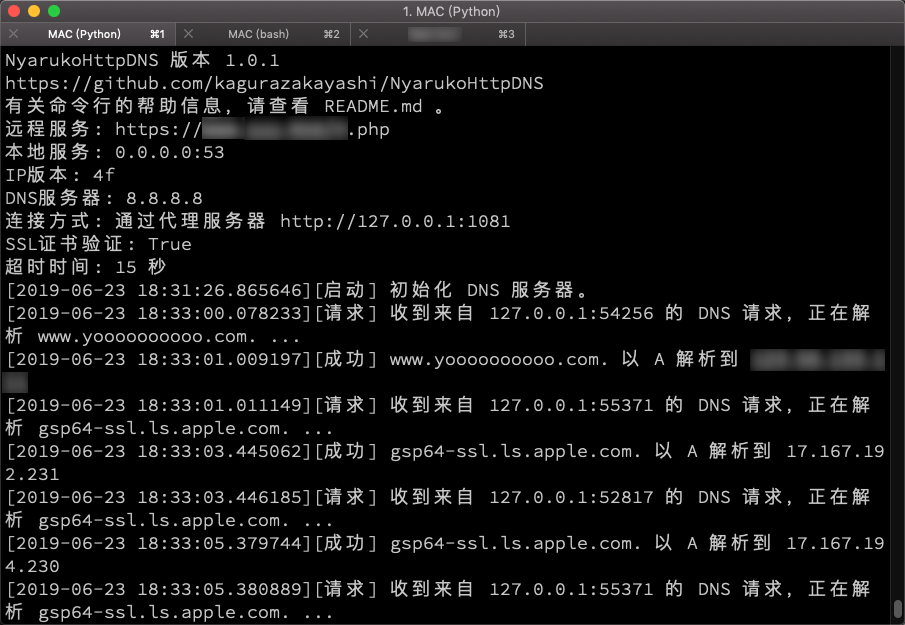
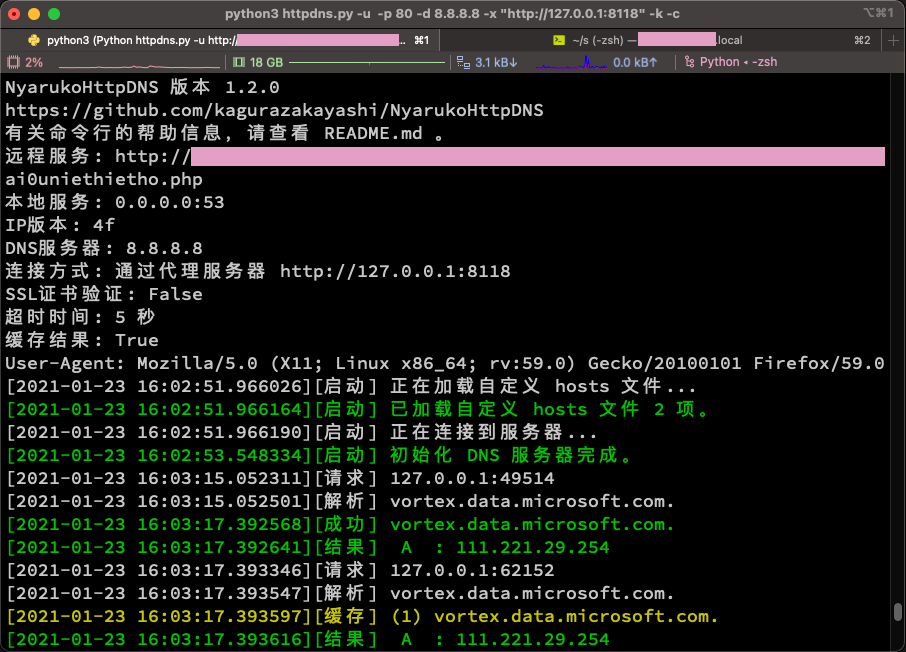
支持本地DNS服务器自定义hosts

Changed region(s): [[0.0, 0.0, 1.0, 1.0], [0.8972, 0.76, 0.9591, 0.8208], [0.8972, 0.4864, 0.9591, 0.5168]]

diff --git a/httpdns.py b/httpdns.py
@@ -77,6 +77,7 @@ class DNSServer(DatagramServer):
     def handle(self, data, address):
         global arga
         global cache
+        global hosts
         global totali
         totali += 1
         print(self.gettime()+"[请求] "+str(totali)+" : "+str(address[0]) + ":"+str(address[1]))
@@ -85,10 +86,13 @@ class DNSServer(DatagramServer):
         print(self.gettime()+"[解析] "+qname)
         rtype = ""
         rdns = ""
+        hk = hosts.keys()
+        hkl = len(hosts.keys())
         ca = cache.keys()
         cal = len(cache.keys())
         if hkl > 0 and qname in hk:
             rtype = " A "
+            rdns = hosts[qname]
             printYellow(self.gettime() +
                         "[本地] ("+str(hkl)+") "+qname)
         elif arga["cache"] == True and qname in ca:
@@ -262,15 +266,49 @@ else:
         print(UseStyle(msg, fore='blue'))
 
 
+def loadhosts():
+    nhosts = {}
+    try:
+        f = open('hosts.txt', 'r')
+        line = f.readline()
+        while line:
+            if len(line) == 0 or line[0:1] == "#":
+                line = f.readline()
+                continue
+            sparr = line.split(' ')
+            ip = sparr[0]
+            host = sparr[-1].replace('\n', '').replace('\r', '')
+            if host[-1:] != ".":
+                # host = host.strip('.')
+                host = host+"."
+            nhosts[host] = ip
+            line = f.readline()
+    except Exception as e:
+        return e
+    return nhosts
+
+
 if __name__ == '__main__':
     """初始化"""
     global arga
     arga = argv()
     global cache
     cache = {}
+    global hosts
+    hosts = {}
     global totali
     totali = 0
     dnss = DNSServer(arga["bind"])
+    if os.path.exists('hosts.txt'):
+        print(dnss.gettime()+"[启动] 正在加载自定义 hosts 文件...")
+        hostsr = loadhosts()
+        if type(hostsr) == Exception:
+            printRed(dnss.gettime()+"[错误] 未能加载 hosts 文件。")
+            printRed(dnss.gettime()+"[错误] "+str(hostsr))
+        else:
+            hosts = hostsr
+            printGreen(dnss.gettime()+"[启动] 已加载自定义 hosts 文件 " +
+                       str(len(hostsr.keys()))+" 项。")
     print(dnss.gettime()+"[启动] 正在连接到服务器...")
     if dnss.getdns('linktest') == None:
         printRed(dnss.gettime()+"[错误] 未能连接到服务器。")

diff --git a/README.md b/README.md
@@ -100,6 +100,7 @@ $ curl "http://127.0.0.1/NyarukoHttpDNS/?h=php.net&d=8.8.8.8&i=a&q=0"
 
 # 自定义hosts
 您可以创建一个文件名为 `hosts.txt` 的文件，来自定义 IP - HOST 对应关系。
+- 服务端和客户端均支持自定义 hosts，通常只需要设置客户端即可。
 - 如果客户端要查询的 host 被记录在此文件中，则直接返回此文件所记录的 IP 地址，不进行任何查询。
 - 建议定义一个与查询服务器对应的 IP 地址条目，以免自查。
 - 如果不需要此功能，请不要放置同目录下的 `hosts.txt` 文件。
@@ -109,6 +110,10 @@ $ curl "http://127.0.0.1/NyarukoHttpDNS/?h=php.net&d=8.8.8.8&i=a&q=0"
 ## 服务端自定义hosts
 - 创建一个文件名为 `hosts.txt` 的文件和 `.php` 文件放置在一起。
 - 如果写入过于庞大的数据、且访问量较大，会影响 I/O 性能。
+
+## 客户端自定义hosts
+- 创建一个文件名为 `hosts.txt` 的文件和 `.python` 文件放置在一起，可为本地DNS服务端自定义hosts。
+- 如果没有统一更换的需要，建议使用客户端来进行自定义 hosts，可以获得最佳性能。
 
 # 附
 - 清除DNS缓存命令
